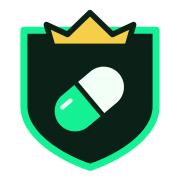
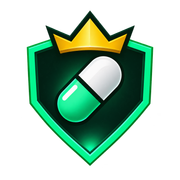
Refresh shield branding and integrate season rules and reward presentation

diff --git a/app/fantasy-app.tsx b/app/fantasy-app.tsx
@@ -375,14 +375,15 @@ export function FantasyApp() {
         <div><span className={`league-phase-dot ${draftOpen ? "open" : ""}`} /><span>{phaseName}</span><strong>{timerValue ?? "Not scheduled"}</strong></div>
         <div><span>DRAFT WINDOW</span><strong>60 minutes</strong></div>
         <div><span>HOLDER ENTRY</span><strong>500,000 FANTASY</strong></div>
-        <div><span>DAILY PRIZE POOL</span><strong>{Number(feePools.availableDailyLamports) > 0 ? `${(Number(feePools.availableDailyLamports) / 1e9).toLocaleString()} SOL` : "65% of creator fees"}</strong></div>
+        <div><span>DAILY PRIZE POOL</span><strong>{Number(feePools.availableDailyLamports) > 0 ? `${(Number(feePools.availableDailyLamports) / 1e9).toLocaleString()} SOL` : "30% of creator fees"}</strong></div>
       </section>
       <section className="hero-light draft-hero">
         <div className="draft-eyebrow"><span className="status-lamp" /> PUMP.FUN FANTASY <span className="eyebrow-divider">/</span> ONE-MONTH PNL <a className="pumpfun-pill" href="https://pump.fun/leaderboard?period=monthly" target="_blank" rel="noreferrer">1M LEADERBOARD</a></div>
         <div className="hero-copy-grid">
           <div>
+            <span className="season-tag">Season 1</span>
             <h1>Draft the leaderboard.<br /><span>Compete on PnL.</span></h1>
-              <p>Draft five traders from Pump.fun’s top 50. Set your lineup in 60 minutes. Compete on their combined PnL change over the next 48 hours.</p>
+              <p>Draft five traders from Pump.fun’s top 50. Set your lineup in 60 minutes. Compete on their combined PnL change across Season 1’s 48-hour window.</p>
             <div className="hero-ctas">
               <a className="primary-cta" href="#draft">Pick your squad</a>
               <a className="secondary-cta" href="/budget-draft">Try a budget draft ↗</a>
@@ -405,7 +406,7 @@ export function FantasyApp() {
             <div className="league-board-bottom"><span>ONE PICK PER BAND</span><span>{rosterSize ? `${rosterSize} / 5 SELECTED` : "EXPLORE THE FIELD ↗"}</span></div>
           </div>
         </div>
-        <div className="draft-ticker"><span>TOP 50 · ONE-MONTH PNL</span><i /><span>5 BANDS · 1 PICK PER BAND</span><i /><span>1 HOUR TO DRAFT · 48 HOURS TO COMPETE</span></div>
+        <div className="draft-ticker"><span>TOP 50 · ONE-MONTH PNL</span><i /><span>5 BANDS · 1 PICK PER BAND</span><i /><span>SEASON 1 · 1-HOUR DRAFT · 48-HOUR SEASON</span></div>
       </section>
 
       <section className="league-rule-summary" aria-label="How the league works">
@@ -469,16 +470,16 @@ export function FantasyApp() {
         <div className="status-cards">
           <article><span className="status-index">01</span><i className="status-symbol">◎</i><h3>One-month top 50</h3><p>Captured from the Pump.fun 1M profit leaderboard. The five rank bands are fixed for each contest.</p><span className={`status-pill ${playerDataReady ? "active" : "pending"}`}>{playerDataReady ? "50 SNAPSHOT PLAYERS" : "ROSTER UNAVAILABLE"}</span></article>
           <article><span className="status-index">02</span><i className="status-symbol">⌁</i><h3>Daily PnL race</h3><p>For each pick, closing 1M PnL minus opening 1M PnL. Add all five changes; the highest score wins.</p><span className="status-pill pending">{standings.some((row) => row.scoringReady) ? "ROUND SCORES LOADED" : "SCORING STARTS AT DRAFT LOCK"}</span></article>
-          <article><span className="status-index">03</span><i className="status-symbol">▤</i><h3>Holder entry + prize</h3><p>Hold 500,000 FANTASY to submit. 65% of confirmed creator fees funds daily first place; 35% remains in the league reserve. Future event payouts require published rules.</p><span className="status-pill pending">{auth.eligible ? "TOKEN CHECK PASSED" : "500K FANTASY REQUIRED"}</span></article>
+          <article><span className="status-index">03</span><i className="status-symbol">▤</i><h3>Holder entry + prize</h3><p>Hold 500,000 FANTASY to submit. Creator-fee allocation: 30% for daily payouts, 50% for each season’s leaderboard and 20% for the championship bonus.</p><span className="status-pill pending">{auth.eligible ? "TOKEN CHECK PASSED" : "500K FANTASY REQUIRED"}</span></article>
         </div>
         <div className="live-standings">
           <div className="standings-heading"><div><span className="section-label">DAILY LEADERBOARD</span><h3>Five picks. One score.</h3></div><small>{snapshotAt ? `SEASON FIELD · ${new Date(snapshotAt).toLocaleString()}` : "NO SOURCE SNAPSHOT"}</small></div>
           {standings.length ? <div className="standings-list">{standings.map((row, index) => <div className="standings-row" key={row.wallet}><b className="standing-rank">{String(index + 1).padStart(2, "0")}</b><span>{shortAddress(row.wallet)}</span><strong>{row.scoringReady && row.score !== null ? `${row.score >= 0 ? "+" : "−"}$${Math.abs(row.score).toLocaleString("en-US", { maximumFractionDigits: 2 })}` : "Awaiting verified PnL"}</strong></div>)}</div> : <p className="standings-empty">Submitted squads appear here. Scores begin after the draft locks and a scoring snapshot is captured.</p>}
         </div>
-        <div className="daily-awards"><div className="standings-heading"><div><span className="section-label">DAILY WINNERS</span><h3>Daily results</h3></div><small>65% OF CONFIRMED CREATOR FEES</small></div>{awards.length ? <div className="award-list">{awards.map((award) => <article className="award-card" key={award.id}><span>DAY {award.day_number}</span><b>{award.winner_wallet ? shortAddress(award.winner_wallet) : award.status === "no_eligible_entries" ? "No eligible entries" : "Awaiting complete PnL data"}</b><strong>{award.score_usd === null ? "" : `${award.score_usd >= 0 ? "+" : "−"}$${Math.abs(award.score_usd).toLocaleString("en-US", { maximumFractionDigits: 2 })}`}</strong><small className={award.status === "paid" ? "paid" : "pending"}>{award.status.replaceAll("_", " ").toUpperCase()}</small>{award.payment_signature ? <a href={`https://solscan.io/tx/${award.payment_signature}`} target="_blank" rel="noreferrer">View payment ↗</a> : null}</article>)}</div> : <p className="standings-empty">The season clock captures daily PnL snapshots and calculates the top five-pick squad at each 24-hour mark.</p>}</div><div className="fee-flow"><span className="section-label">CREATOR FEES FUND THE LEAGUE</span><div className="reward-split"><article><b>65%</b><strong>Daily winners</strong><small>{(Number(feePools.availableDailyLamports) / 1e9).toLocaleString(undefined, {maximumFractionDigits: 6})} SOL in the daily pool</small></article><article><b>35%</b><strong>League reward reserve</strong><small>{(Number(feePools.reserveLamports) / 1e9).toLocaleString(undefined, {maximumFractionDigits: 6})} SOL reserved for weekly, monthly, and playoff rewards</small></article></div><p>Only finalized creator-fee claims enter the pools. The daily prize freezes at each 24-hour cutoff; fees confirmed after that cutoff carry into the next daily pool. The 35% reserve is excluded from daily payouts. Weekly, monthly, and playoff payout rules will be published before those events open.</p><span className="section-label">DAILY SETTLEMENT</span><div><b>Daily PnL snapshot</b><i aria-hidden="true">/</i><b>Top squad</b><i aria-hidden="true">/</i><b>Verified SOL transfer</b></div><p>The highest squad PnL change at each daily cutoff wins that day’s pool. A prize is only shown as paid after the winning wallet receives the configured SOL amount and the transaction is verified on Solana.</p></div>
+        <div className="daily-awards"><div className="standings-heading"><div><span className="section-label">DAILY WINNERS</span><h3>Daily results</h3></div><small>DAILY PAYOUT HISTORY</small></div>{awards.length ? <div className="award-list">{awards.map((award) => <article className="award-card" key={award.id}><span>DAY {award.day_number}</span><b>{award.winner_wallet ? shortAddress(award.winner_wallet) : award.status === "no_eligible_entries" ? "No eligible entries" : "Awaiting complete PnL data"}</b><strong>{award.score_usd === null ? "" : `${award.score_usd >= 0 ? "+" : "−"}$${Math.abs(award.score_usd).toLocaleString("en-US", { maximumFractionDigits: 2 })}`}</strong><small className={award.status === "paid" ? "paid" : "pending"}>{award.status.replaceAll("_", " ").toUpperCase()}</small>{award.payment_signature ? <a href={`https://solscan.io/tx/${award.payment_signature}`} target="_blank" rel="noreferrer">View payment ↗</a> : null}</article>)}</div> : <p className="standings-empty">The season clock captures daily PnL snapshots and calculates the top five-pick squad at each 24-hour mark.</p>}</div><div className="fee-flow"><span className="section-label">CREATOR FEES FUND THE LEAGUE</span><div className="reward-split"><article><b>30%</b><strong>Daily payouts</strong><small>Rewards for each day’s results.</small></article><article><b>50%</b><strong>Season leaderboard</strong><small>Rewards for each season’s final standings.</small></article><article><b>20%</b><strong>Championship bonus</strong><small>An additional pool for the championship.</small></article></div><p className="allocation-note">New allocation. Payout activation and event rules are being finalized. Published payout records remain unchanged.</p><span className="section-label">VERIFIED REWARDS</span><div><b>Confirmed creator fees</b><i aria-hidden="true">/</i><b>League results</b><i aria-hidden="true">/</i><b>Verified SOL transfer</b></div><p>Completed payments link to their Solana transaction. A reward is only marked paid after its transfer is verified.</p></div>
         <div className="season-pathway">
-          <div><span className="section-label">THE LEAGUE KEEPS GOING</span><h3>A new field every season.</h3><p>Each season runs a 1-hour draft, then 48 hours of scoring. Daily results are captured at the 24-hour marks. When a season closes, the next one-hour draft opens once the fresh top-50 field and funded daily prizes pass the server checks.</p></div>
-          <ol><li><b>01</b><span><strong>Draft</strong><small>Pick five before entries lock.</small></span></li><li><b>02</b><span><strong>Season</strong><small>Track the 48-hour PnL race.</small></span></li><li><b>03</b><span><strong>Next season</strong><small>Fresh draft, new standings.</small></span></li></ol>
+          <div><span className="section-label">THE LEAGUE KEEPS GOING</span><h3>A new field every season.</h3><p>Season 1 opens with a 60-minute draft and 48 hours of scoring. Later seasons may vary in length and format. Each season’s schedule and rules will be shown before entries open.</p></div>
+          <ol><li><b>01</b><span><strong>Draft</strong><small>Pick five before entries lock.</small></span></li><li><b>02</b><span><strong>Season</strong><small>Follow your season’s PnL race.</small></span></li><li><b>03</b><span><strong>Next season</strong><small>Fresh draft, new standings.</small></span></li></ol>
           <small className="season-pathway-note">Season rollover, score snapshots, and configured SOL payouts run from the protected server cron. Every payout is checked onchain before it is marked paid.</small>
         </div>
       </section>
@@ -486,7 +487,7 @@ export function FantasyApp() {
       <section className="how-section" id="format">
         <div className="how-heading"><span className="section-label">THE FORMAT</span><h2>The league rules.</h2><p>Simple roster building, transparent scoring, and results that can be checked.</p></div>
         <div className="how-grid">
-          <article><span>01</span><i className="how-icon">01</i><h3>Build the field</h3><p>At season launch, the one-month Pump.fun top 50 is frozen into five bands of ten. That field stays fixed for all 48 hours.</p></article>
+          <article><span>01</span><i className="how-icon">01</i><h3>Build the field</h3><p>At season launch, the one-month Pump.fun top 50 is frozen into five bands of ten. That field stays fixed throughout the season.</p></article>
           <article><span>02</span><i className="how-icon">02</i><h3>Pick your five</h3><p>Hold 500,000 FANTASY, connect and sign in, then pick one trader per band. Submit within 60 minutes. Changes only count after you resubmit.</p></article>
           <article><span>03</span><i className="how-icon">03</i><h3>Score the move</h3><p>Each pick scores its change in one-month PnL between the round’s opening and closing snapshots. Sum your five.</p></article>
           <article><span>04</span><i className="how-icon">04</i><h3>Pay the winner</h3><p>The top squad at each daily snapshot is recorded. A SOL award is shown as paid only after the onchain transfer is verified.</p></article>

diff --git a/app/launch-polish.css b/app/launch-polish.css
@@ -2,7 +2,7 @@
 .draft-room{--green:#14f195;--green-ink:#0b4c30;--green-soft:#e4fbee;--paper:#f6faf7;background:var(--paper);color:#14271e}
 .draft-room .topbar{height:78px;border-top:0;background:#fffdfb;border-bottom:1px solid #dee5f0}
 .draft-room .topbar nav{height:78px}.draft-room .topbar nav a{height:78px}
-.draft-room .pf-brand em{background:#e4fbee;color:#087b46}.draft-room .pf-mark-image{background-image:url('/brand/league-emblem.svg')}
+.draft-room .pf-brand em{background:#e4fbee;color:#087b46}.draft-room .pf-mark-image{background-image:url('/brand/pump-fantasy-shield.png')}
 .draft-room .league-live-strip{background:#102c20;color:#e5fff0;border-color:#2b4a39;padding-block:16px}.draft-room .league-live-strip span{color:#a5c9b5}.draft-room .league-live-strip>div+div{border-color:#345440}.draft-room .league-phase-dot.open{background:#72d6bf;box-shadow:none}
 .draft-room .draft-hero{background:radial-gradient(ellipse at 90% 20%,#d9f9e6 0,transparent 53%),#f6faf7;padding-top:65px;padding-bottom:0}
 .draft-room .hero-copy-grid{grid-template-columns:1fr 1fr;gap:50px;align-items:center;min-height:390px}
@@ -19,7 +19,7 @@
 .league-preview-card:hover,.league-preview-card:focus-visible{transform:translateY(-18px);border-color:#a1f8c5;box-shadow:0 15px 20px #0003;outline-offset:5px}.league-preview-card small{font:8px var(--font-geist-mono),monospace;color:#b3d8c2}.league-preview-card .league-avatar{width:100%;aspect-ratio:1;border-radius:7px;background:#4d8d67;overflow:hidden;display:grid;place-items:center;font-size:25px;color:white}.league-avatar img{width:100%;height:100%;object-fit:cover}.league-preview-card b{font-size:10px;overflow:hidden;text-overflow:ellipsis;white-space:nowrap}.league-preview-card em{font-style:normal;font:8px var(--font-geist-mono),monospace;border-top:1px solid #6698794d;padding-top:9px;color:#c7f4d9}.league-board-bottom{font-size:8px;border-top:1px solid #39684c;padding-top:17px}.league-board-bottom span:last-child{color:#b8d4fa}
 .draft-room .draft-ticker{border-color:#dcebe1;background:transparent;color:#69809d;padding-block:24px;margin-top:35px;font-size:9px}.draft-room .league-rule-summary{background:#fff;border-color:#dce8df}.draft-room .league-rule-summary>div>b{color:#087b46;background:#e4fbee}
 .draft-room .band-player:hover{background:#edfbf2}.draft-room .band-player.selected{background:#e3f9ec;border-color:#69ce93}.draft-room .band-player.selected .player-select-mark{color:#fff;background:#087b46;border-color:#087b46}.draft-room .draft-round-head{background:#eff8f2}.draft-room .round-number{color:#087b46}.draft-room .round-pick{background:#e4fbee;color:#227044}.draft-room .draft-progress .filled{background:#087b46}.draft-room .roster-panel{border-top-color:#087b46}.draft-room .roster-panel-head em{background:#e6f9ed;color:#34684b}.draft-room .submit-squad:not(:disabled){background:#087b46;color:white}
-.draft-room .pnl-positive{color:#167767}.draft-room .squad-save-state.saved{background:#eaf5ef;color:#205f43;border-color:#9dc9b0}.draft-room .season-clock{background:#102c20}.draft-room .how-section{background:#eaf5ee}.draft-room .closing-cta{background:#102c20}.draft-room .closing-cta>span{background-image:url('/brand/league-emblem.svg')}
+.draft-room .pnl-positive{color:#167767}.draft-room .squad-save-state.saved{background:#eaf5ef;color:#205f43;border-color:#9dc9b0}.draft-room .season-clock{background:#102c20}.draft-room .how-section{background:#eaf5ee}.draft-room .closing-cta{background:#102c20}.draft-room .closing-cta>span{background-image:url('/brand/pump-fantasy-shield.png')}
 .draft-room .fee-flow{background:#eef9f2;border-color:#cde5d6}.draft-room .reward-split article{border-color:#c9e5d3}.draft-room .reward-split b{color:#087b46}
 .draft-room .pf-brand,.draft-room button,.draft-room a{touch-action:manipulation}.draft-room :focus-visible{outline:2px solid #087b46;outline-offset:4px}
 .rules-page{max-width:820px;margin:0 auto;padding:50px 24px 100px;color:#22304c}.rules-page>a{font-size:13px;color:#087b46}.rules-page h1{font-size:clamp(40px,6vw,64px);letter-spacing:-.06em;margin:65px 0 20px}.rules-page .rules-lead{font-size:19px;color:#65738b;line-height:1.7}.rules-page section{padding:30px 0;border-bottom:1px solid #dbe3ef}.rules-page h2{font-size:22px;letter-spacing:-.03em}.rules-page p,.rules-page li{font-size:15px;line-height:1.8;color:#576780}.rules-page a{text-decoration:underline;text-underline-offset:4px}
@@ -80,3 +80,48 @@
 .league-preview-card:nth-child(2) small,.league-preview-card:nth-child(2) em{color:#c6dffc}
 .draft-room .closing-cta>span{opacity:.08}
 .draft-room .season-pathway>.section-label{color:#83e8ad}
+
+/* Shared shield identity, compact allocations and the integrated league rulebook. */
+.draft-room .pf-mark-image{width:42px;height:46px;flex-basis:42px}
+.season-tag{display:inline-flex;padding:6px 9px;border:1px solid #bce6cd;border-radius:5px;background:#e8f8ee;color:#27734a;font:650 9px/1.2 var(--font-geist-mono),monospace;letter-spacing:.08em;text-transform:uppercase}
+.draft-hero .season-tag{margin-bottom:18px}
+.draft-room .fee-flow>.reward-split{grid-template-columns:repeat(3,minmax(0,1fr))}
+.draft-room .reward-split article{min-width:0}
+.draft-room .reward-split strong{font-size:16px}
+.draft-room .fee-flow p.allocation-note{font-size:11px;color:#526b5b}
+.rules-draft-link{display:flex;align-items:center;gap:22px;padding:12px 16px;border:1px solid #b8e5cb;border-radius:8px;background:#e5f9ed;color:#155634;font-size:12px;font-weight:650}
+.league-rules-wrap{max-width:1160px;margin:auto;padding:64px 32px 32px}
+.league-rules-hero{padding-bottom:42px;border-bottom:1px solid #d5e5da}
+.league-rules-hero h1{font-size:clamp(42px,5.4vw,72px);letter-spacing:-.065em;line-height:1.04;margin:22px 0;color:#142e20;font-weight:650}
+.league-rules-hero h1 span{color:#087b46}
+.league-rules-hero>p{font-size:16px;line-height:1.7;color:#617568;max-width:530px}
+.rules-quick-facts{display:grid;grid-template-columns:repeat(3,1fr);max-width:680px;margin-top:32px;gap:24px}
+.rules-quick-facts>div{display:grid;gap:8px;border-left:2px solid #14f195;padding-left:16px}
+.rules-quick-facts strong{font-size:23px;letter-spacing:-.04em;color:#153e26}
+.rules-quick-facts span{font-size:11px;color:#63786b}
+.league-rules-layout{display:grid;grid-template-columns:220px minmax(0,1fr);gap:60px;margin-top:40px;align-items:start}
+.rules-contents{position:sticky;top:110px;display:grid;gap:8px}
+.rules-contents>span{font:600 9px var(--font-geist-mono),monospace;letter-spacing:.12em;color:#6a8073;margin:0 0 12px 12px}
+.rules-contents a{padding:12px;border-radius:6px;font-size:12px;color:#536e5e;transition:background .15s,color .15s}
+.rules-contents a:hover{background:#e1f4e8;color:#087b46}
+.rules-chapters{display:grid;gap:16px}
+.rules-chapters section{position:relative;background:#fff;border:1px solid #dce9e1;border-radius:13px;padding:30px;scroll-margin-top:100px}
+.rules-chapter-number{display:grid;place-items:center;width:30px;height:30px;background:#e3f8ec;color:#087b46;border-radius:7px;font:650 10px var(--font-geist-mono),monospace;margin-bottom:18px}
+.rules-chapters h2{font-size:25px;line-height:1.2;letter-spacing:-.04em;margin:0 0 16px;color:#173525}
+.rules-chapters p{font-size:14px;line-height:1.8;color:#5b6f61;margin:12px 0 0}
+.rules-chapters p strong{color:#2c513a;font-weight:650}
+.rules-bands{display:grid;grid-template-columns:repeat(5,1fr);gap:8px;margin:22px 0}
+.rules-bands span{padding:12px 4px;text-align:center;border:1px solid #cce9d7;background:#f1fbf5;color:#237044;border-radius:7px;font:650 11px var(--font-geist-mono),monospace}
+.rules-formula{padding:20px 12px;background:#102c20;color:#effff5;border-radius:8px;margin:22px 0;font:500 12px/1.8 var(--font-geist-mono),monospace;text-align:center}
+.rules-formula span{color:#14f195;margin:0 8px}
+.rules-pools{display:grid;grid-template-columns:repeat(3,1fr);gap:10px;margin:22px 0}
+.rules-pools>div{padding:20px 12px;border-radius:9px;background:#ecf9f1;display:grid;gap:9px}
+.rules-pools strong{font-size:34px;letter-spacing:-.06em;color:#087b46}
+.rules-pools span{font-size:11px;font-weight:600;color:#376549}
+.rules-chapters p.rules-small-note{font-size:11px;line-height:1.65;color:#708075}
+.rules-inline-link{display:inline-flex;align-items:center;gap:18px;min-height:44px;margin-top:14px;color:#087b46;font-size:13px;font-weight:650}
+.rules-finish{display:flex;justify-content:space-between;align-items:center;gap:24px;margin-top:42px;padding:30px;border:1px solid #c7e5d2;border-radius:12px;background:#e8f7ed}
+.rules-finish h2{margin:10px 0 0;font-size:26px;letter-spacing:-.04em}
+.rules-fineprint{color:#718077;font-size:10px;line-height:1.8;margin:22px 0}
+@media(max-width:800px){.league-rules-wrap{padding:36px 20px 24px}.league-rules-layout{grid-template-columns:1fr;gap:24px}.rules-contents{position:static;grid-template-columns:repeat(2,minmax(0,1fr));gap:4px}.rules-contents>span{grid-column:1/-1}.rules-contents a{background:#edf6f0}.rules-chapters section{padding:24px}.rules-finish{align-items:flex-start;flex-direction:column}.rules-shell .topbar{grid-template-columns:1fr auto}.rules-shell .topbar nav{display:flex;grid-column:1/-1;grid-row:2;height:44px;gap:0;justify-content:space-between;width:100%}.rules-shell .topbar nav a{height:44px;font-size:11px}.rules-shell .topbar{gap:0 10px;padding-top:12px}.rules-chapters section{scroll-margin-top:145px}.rules-draft-link{font-size:11px;gap:8px;padding:10px}.draft-room .fee-flow>.reward-split{grid-template-columns:1fr}.draft-room .pf-mark-image{width:34px;height:38px;flex-basis:34px}}
+@media(max-width:420px){.rules-quick-facts{gap:12px}.rules-quick-facts strong{font-size:20px}.rules-quick-facts>div{padding-left:10px}.rules-quick-facts span{font-size:10px;line-height:1.5}.rules-chapters section{padding:22px 18px}.rules-pools{gap:6px}.rules-pools>div{padding:16px 9px}.rules-pools strong{font-size:30px}.rules-pools span{font-size:10px;line-height:1.5}.rules-formula{font-size:10px}.rules-formula span{margin:0 3px}.league-rules-hero>p{font-size:14px}}

diff --git a/app/rules/page.tsx b/app/rules/page.tsx
@@ -1,5 +1,41 @@
-import Link from 'next/link';
-import type {Metadata} from 'next';
-import '../launch-polish.css';
-export const metadata:Metadata={title:'League rules | Pump Fantasy',description:'Draft eligibility, PnL scoring, season deadlines and verified SOL rewards.'};
-export default function Rules(){return <main className="rules-page"><Link href="/">← Pump Fantasy</Link><h1>Know the format.<br/>Make your picks.</h1><p className="rules-lead">Five traders. Five rank bands. A 60-minute draft followed by 48 hours of scoring.</p><section><h2>Entry and eligibility</h2><p>Hold at least 500,000 FANTASY in the wallet you use to sign in. Sign-in uses a wallet message; it does not transfer tokens. You get one lineup per wallet, with one trader from each band: 1–10, 11–20, 21–30, 31–40 and 41–50.</p><p>The server fixes the top-50 roster when the season opens. Local picks are not entered until the server confirms your submission. Changes count only after you resubmit before the draft deadline.</p></section><section><h2>What earns points</h2><p>A trader’s score is the change in their reported one-month PnL between the scoring snapshots. Your lineup score is the sum of those changes for your five traders. The large historical PnL shown on a player card is not their contest score.</p><p>Each daily scoring window starts with its own baseline. Ties are resolved by wallet address in ascending order. A missing trader or incomplete snapshot holds the result for review; it does not turn into a zero or an invented score.</p></section><section><h2>Where rewards come from</h2><p>In creator-fee mode, 65% of finalized creator-fee receipts funds daily rewards. The remaining 35% stays in the league reserve and cannot fund daily payouts. No fixed prize or guaranteed yield is promised.</p><p>The daily pool freezes at its cutoff. Later receipts enter the next pool. If there are no eligible entries, the allocation carries forward. A winner is marked paid only after the exact SOL transfer finalizes on Solana. Future weekly, monthly and playoff events require separate published rules.</p></section><section><h2>The budget draft is practice</h2><p>The <a href="/budget-draft">100-credit draft lab</a> is separate from the live contest. Credits are game units, with prices derived from rank. Picks stay in your browser. The lab does not spend SOL or tokens, submit a real entry or pay prizes.</p></section><section><h2>Before the season opens</h2><p>Entries stay closed until the mint, holder checks, season roster, schedule and reward configuration pass the launch checks. The current season state appears in the draft room. Pump Fantasy is independent of Pump.fun. External PnL data can be delayed or revised, and token prices can fall.</p></section></main>}
+import Link from "next/link";
+import type { Metadata } from "next";
+import "../league-relaunch.css";
+import "../launch-polish.css";
+
+export const metadata: Metadata = {
+  title: "League rules | Pump Fantasy",
+  description: "Five picks, clear scoring and creator-funded rewards. The Pump Fantasy season format.",
+};
+
+export default function Rules() {
+  return (
+    <main className="app-shell draft-room rules-shell">
+      <header className="topbar">
+        <Link className="pf-brand" href="/" aria-label="Pump Fantasy home"><span className="pf-mark-image" role="img" aria-label="Pump Fantasy logo" /><strong>PumpFun Fantasy</strong><em>LEAGUE</em></Link>
+        <nav aria-label="Primary"><Link href="/#draft">Draft room</Link><Link href="/budget-draft">Draft lab</Link><Link href="/rules" className="active" aria-current="page">Rules</Link><Link href="/#status">Season status</Link></nav>
+        <Link className="rules-draft-link" href="/#draft">Pick your squad <span aria-hidden="true">↗</span></Link>
+      </header>
+      <div className="league-rules-wrap">
+        <section className="league-rules-hero">
+          <span className="season-tag">Season 1</span>
+          <h1>Know the format.<br /><span>Make your picks.</span></h1>
+          <p>Pick five traders. Follow their PnL. Compete for the league’s creator-funded rewards.</p>
+          <div className="rules-quick-facts"><div><strong>500K</strong><span>FANTASY to enter</span></div><div><strong>5 picks</strong><span>One from each rank band</span></div><div><strong>48 hours</strong><span>Season 1 scoring window</span></div></div>
+        </section>
+        <div className="league-rules-layout">
+          <aside className="rules-contents" aria-label="On this page"><span>THE RULEBOOK</span><a href="#entry">01 / Enter the league</a><a href="#scoring">02 / How scoring works</a><a href="#rewards">03 / The reward pools</a><a href="#seasons">04 / Season schedule</a><a href="#practice">05 / Practice first</a></aside>
+          <div className="rules-chapters">
+            <section id="entry"><span className="rules-chapter-number">01</span><h2>Build your five.</h2><p>Hold at least <strong>500,000 FANTASY</strong> in your connected wallet. Sign in with a wallet message, then submit one lineup. Signing in does not transfer tokens.</p><div className="rules-bands" aria-label="Pick one trader per rank band">{["1–10", "11–20", "21–30", "31–40", "41–50"].map(band => <span key={band}>{band}</span>)}</div><p>Pick one trader from each band. The top-50 field is fixed when the season opens. Submit before the draft closes; edits count only after you resubmit and receive confirmation.</p></section>
+            <section id="scoring"><span className="rules-chapter-number">02</span><h2>Score the change.</h2><p>Your score adds up the change in one-month PnL for your five traders between the scoring snapshots. The historical PnL on a trader’s card is their starting reference, not your contest score.</p><div className="rules-formula">Closing PnL <span>−</span> Opening PnL <span>=</span> Points</div><p>Daily windows use their own baseline. Ties are resolved by wallet address in ascending order. Incomplete snapshots hold the result for review.</p></section>
+            <section id="rewards"><span className="rules-chapter-number">03</span><h2>Three reward pools.</h2><p>Creator fees fund the league. Here’s the new allocation:</p><div className="rules-pools"><div><strong>30%</strong><span>Daily payouts</span></div><div><strong>50%</strong><span>Season leaderboard</span></div><div><strong>20%</strong><span>Championship bonus</span></div></div><p className="rules-small-note">Payout activation and event rules are being finalized. Existing receipts and payout records retain their original allocations.</p><p>Only confirmed fees fund rewards. Daily pools freeze at their cutoff; later receipts enter the next pool. No eligible entries means the daily allocation carries forward. Completed payouts link to a verified Solana transaction.</p></section>
+            <section id="seasons"><span className="rules-chapter-number">04</span><h2>Season 1 starts here.</h2><p>The first season has a <strong>60-minute draft</strong> followed by <strong>48 hours of scoring</strong>, with daily results at the 24-hour marks.</p><p>Later seasons may vary in length and format. Each season’s schedule and rules will be shown before entries open. Use the live season clock in the draft room for the current deadline.</p><Link className="rules-inline-link" href="/#status">View season status <span aria-hidden="true">↗</span></Link></section>
+            <section id="practice"><span className="rules-chapter-number">05</span><h2>Try your lineup first.</h2><p>The 100-credit Draft Lab lets you build a practice lineup. Picks stay in your browser; practice does not spend tokens, enter a contest or pay prizes.</p><Link className="rules-inline-link" href="/budget-draft">Open Draft Lab <span aria-hidden="true">↗</span></Link></section>
+          </div>
+        </div>
+        <div className="rules-finish"><div><span className="section-label">READY TO PICK?</span><h2>Five traders. Your squad.</h2></div><Link className="primary-cta" href="/#draft">Go to the draft room</Link></div>
+        <p className="rules-fineprint">Entry availability follows the published season status. Pump Fantasy is independent of Pump.fun. External PnL data can be delayed or revised; rewards are not guaranteed.</p>
+      </div>
+    </main>
+  );
+}

diff --git a/app/layout.tsx b/app/layout.tsx
@@ -18,7 +18,7 @@ export const metadata: Metadata = {
   title: "PumpFun Fantasy League | Draft your five",
   description:
     "Hold 500,000 FANTASY. Draft five traders in one hour. Compete across 48 hours of Pump.fun PnL.",
-  icons: { icon: "/brand/fantasy-league-mark.svg", apple: "/brand/fantasy-league-mark-180.png" },
+  icons: { icon: "/brand/pump-fantasy-shield-32.png", apple: "/apple-icon.png" },
   openGraph: {
     title: "PumpFun Fantasy League",
     description: "Draft one trader from each rank band. Build your five and follow the PnL race.",

diff --git a/LAUNCH_READINESS.md b/LAUNCH_READINESS.md
@@ -32,3 +32,9 @@ Run `npm run check:live` against the canonical URL. This check is read-only and 
 ## Green palette refresh — November 5, 2026
 
 Presentation-only update on latest main: Pump-green primary actions, forest-green draft panels and mint surfaces. Blue remains on a secondary preview card and small data details. Existing layout, eligibility, fee allocation, wallet flow and activation controls are preserved. Desktop 1440px and phone 390px checked without horizontal overflow. No financial execution was performed.
+
+## Logo, rules and allocation presentation — November 5, 2026
+
+Owner explicitly limited this pass to frontend; collaborator owns backend. Supplied glossy crowned shield replaces the header/footer mark and transparent favicons. Rules now shares the green league visual system. Season 1 appears as a compact hero badge; later season lengths/formats may vary and must be published before entries open.
+
+The announced fee allocation is 30% daily payouts, 50% each season's leaderboard, 20% championship bonus. This pass does NOT change the existing 65/35 receipt accounting, payout code, database, scheduler, or activation flags. Public copy identifies the new allocation as awaiting payout activation/event rules; historical transaction history remains untouched. Collaborator must implement the new split with versioned receipts (preserving history), dedicated season/championship pools, defined leaderboard distribution and championship rules, and verified settlement. Do not derive new pool balances by splitting old reserves in the frontend. Subsequent season timing must follow backend schedules; update the small Season 1 badge with the published season identity when the next season is configured.
